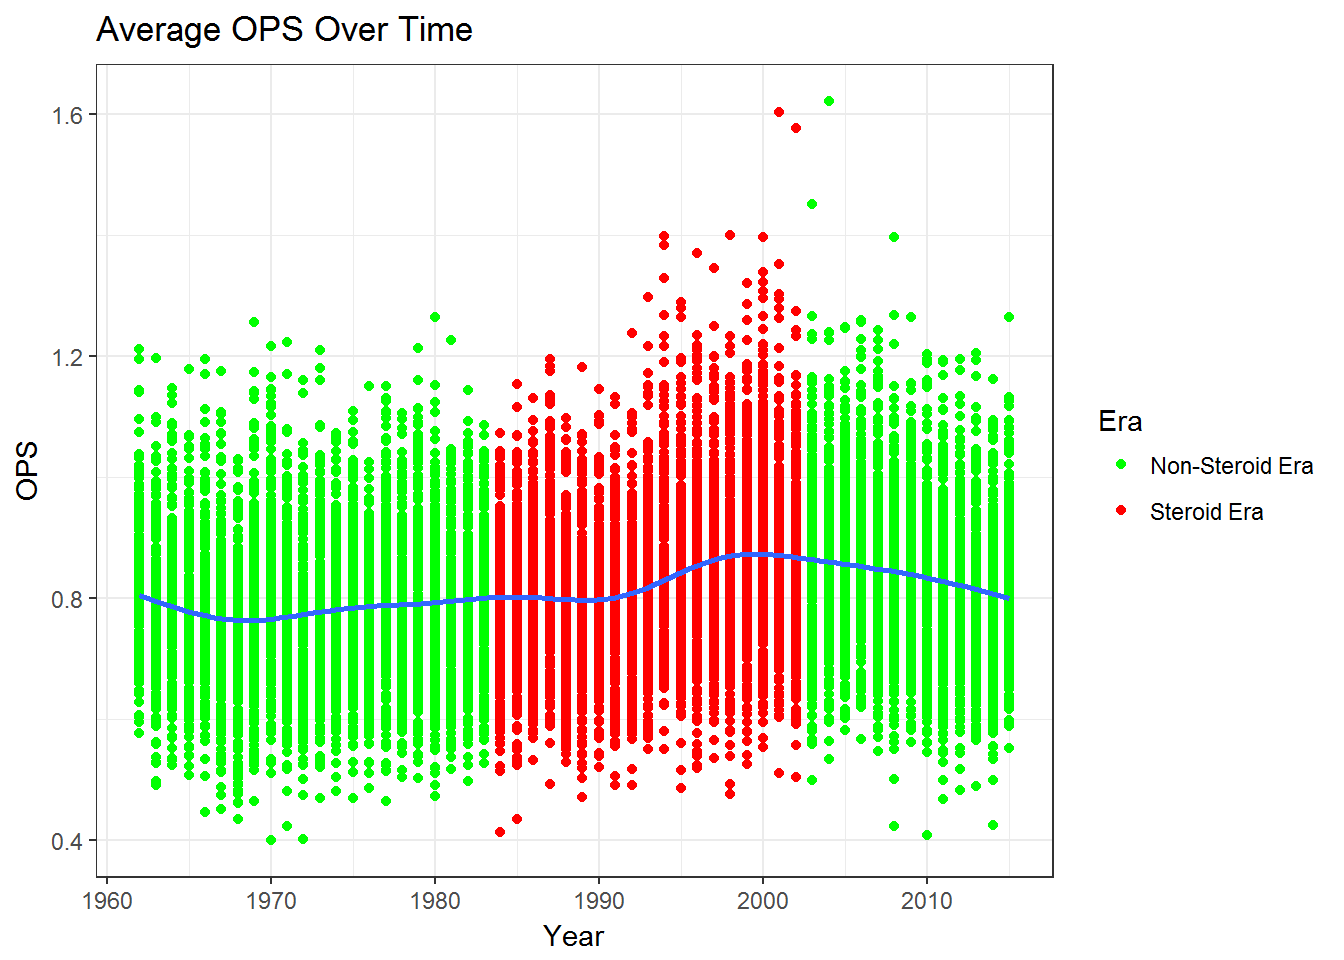
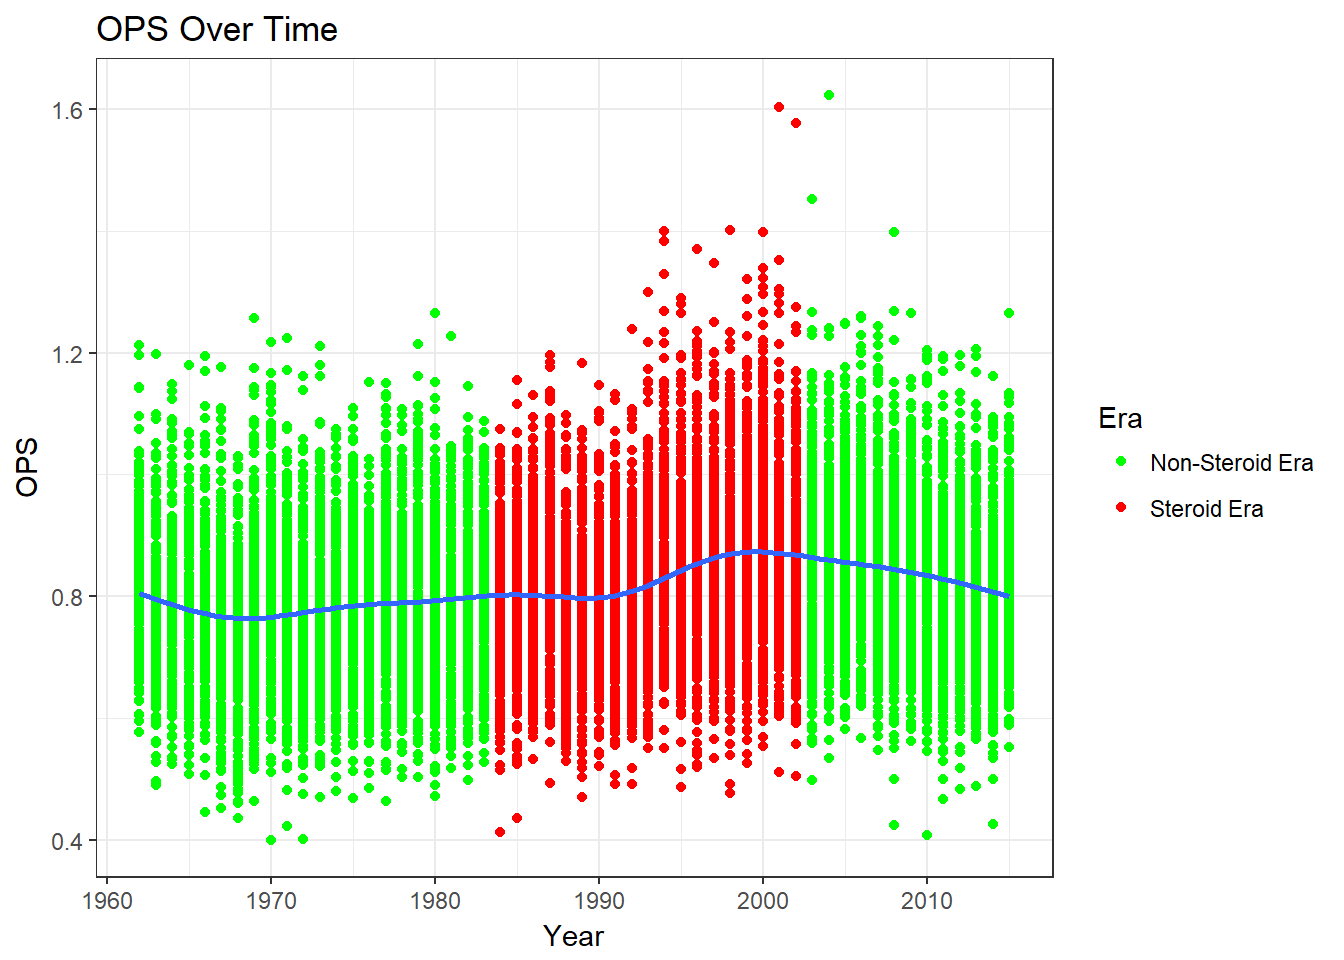
added descriptions

diff --git a/analysis.html b/analysis.html
@@ -202,39 +202,42 @@ $(document).ready(function () {
 
 
 <pre class="r"><code>batting2 = filter(batting, batting$yearID &gt; 1961) %&gt;% select(yearID,H,X2B,X3B,HR,AB,BB,HBP,SF) %&gt;% na.omit() %&gt;% mutate(TB = H+2*X2B+(3*X3B)+(4*HR)) %&gt;% mutate(SLG = TB/AB) %&gt;% na.omit() %&gt;% mutate(OBP = (H + BB + HBP)/(AB + BB + SF + HBP)) %&gt;% mutate(OPS = SLG + OBP) %&gt;% mutate(steroidEra = (yearID&gt;1983 &amp; yearID&lt;2003)) %&gt;% filter(AB&gt;160)</code></pre>
-<p>Using the filter function from the “dplyr” package, we took our batting data and truncated it below at the year 1961, since this is the year that baseball had become today’s standard of 162 games. Then using the select function we picked our desired variables, and then omitted any missing values(Na’s). Lastly we used mutate to create a series of new variables which ended up producing OPS, as such</p>
+<p>We used the filter function from the “dplyr” package and filtered out the data below at the year 1961, since this is the year that baseball had become today’s standard of 162 games. Then we used the select function to pick our desired variables and then omitted any missing values(Na’s). We filtered out players with few at bats. Lastly we used mutate to create a series of new variables which ended up producing OPS, as such</p>
 <p><span class="math display">\[TB=H+2(X2B)+3(X3B)+4(HR)\]</span> <span class="math display">\[ SLG=TB/AB \]</span> <span class="math display">\[OBP=(H+BB+HBP)/(AB +BB+SF+HBP) \]</span> <span class="math display">\[OPS=SLG+OBP \]</span></p>
 <pre class="r"><code>table = batting2 %&gt;% group_by(yearID,steroidEra) %&gt;% summarise(avgOPS = mean(OPS))</code></pre>
-<p>Next, creating a table with variables denotating: specific year, specifying if year is in steroid era (or not), and average OPS.</p>
-<pre class="r"><code>ggplot(batting2, aes(x =yearID, y = OPS)) + geom_point(aes(x =yearID, y = OPS ,col=steroidEra)) + geom_smooth(se=FALSE) + ggtitle(&quot;Average OPS Over Time&quot;) + xlab(&quot;Year&quot;) + ylab(&quot;OPS&quot;) + scale_color_discrete(name=&#39;Steroid Era&#39;) + theme_minimal() +  scale_color_manual(name= &quot;Era&quot;,labels=c(&quot;Non-Steroid Era&quot;,&quot;Steroid Era&quot;),values = c(&quot;green&quot;,&quot;red&quot;)) + theme_bw() </code></pre>
+<p>Next, we created created another subset of the data with just year, whether the year is in the steroid era, and a new variable, average OPS for the year.</p>
+<pre class="r"><code>ggplot(batting2, aes(x =yearID, y = OPS)) + geom_point(aes(x =yearID, y = OPS ,col=steroidEra)) + geom_smooth(se=FALSE) + ggtitle(&quot;OPS Over Time&quot;) + xlab(&quot;Year&quot;) + ylab(&quot;OPS&quot;) + scale_color_discrete(name=&#39;Steroid Era&#39;) + theme_minimal() +  scale_color_manual(name= &quot;Era&quot;,labels=c(&quot;Non-Steroid Era&quot;,&quot;Steroid Era&quot;),values = c(&quot;green&quot;,&quot;red&quot;)) + theme_bw() </code></pre>
 <p><img src="analysis_files/figure-html/unnamed-chunk-4-1.png" width="672" /></p>
 <pre class="r"><code>ggplot(table, aes(x =yearID, y = avgOPS)) + geom_point(aes(x =yearID, y = avgOPS ,col=steroidEra)) + geom_smooth(se=FALSE) + ggtitle(&quot;Average OPS Over Time&quot;) + xlab(&quot;Year&quot;) + ylab(&quot;Average OPS&quot;) + scale_color_manual(name= &quot;Era&quot;,labels=c(&quot;Non-Steroid Era&quot;,&quot;Steroid Era&quot;),values = c(&quot;green&quot;,&quot;red&quot;)) + theme_bw() </code></pre>
 <p><img src="analysis_files/figure-html/unnamed-chunk-4-2.png" width="672" /></p>
-<div id="we-can-see-that-average-ops-increases-steadily-during-the-60s-and-70s-increasing-moderately-still-through-80s-plateu-around-2000-then-decreases-steadily-after." class="section level3">
-<h3>We can see that average OPS increases steadily during the 60’s and 70’s, increasing moderately still through 80’s, plateu around 2000, then decreases steadily after.</h3>
+<div id="the-ops-over-time-graph-shows-that-there-was-a-bump-in-ops-during-the-steroid-era-and-that-it-seems-to-be-decreasing-now.-the-average-ops-graph-is-similar.-we-see-decreases-at-the-beginning-of-the-60s-and-then-slowing-increases-until-the-steroid-era-where-the-increase-is-larger.-after-the-steroid-era-ops-decreases." class="section level3">
+<h3>The OPS Over Time graph shows that there was a bump in OPS during the steroid era and that it seems to be decreasing now. The average OPS graph is similar. We see decreases at the beginning of the 60’s and then slowing increases until the steroid era where the increase is larger. After the steroid era OPS decreases.</h3>
 <pre class="r"><code>pitching2 = filter(pitching, pitching$yearID &gt; 1961)%&gt;%
   select(yearID,ERA,G) %&gt;% na.omit %&gt;%
-  mutate(steroidEra = (yearID&gt;1983 &amp; yearID&lt;2003)) %&gt;% filter(G&gt;15)
+  mutate(steroidEra = (yearID&gt;1983 &amp; yearID&lt;2003)) %&gt;% filter(G&gt;30)
 
 table2 = pitching2 %&gt;% group_by(yearID,steroidEra) %&gt;% summarise(avgERA = mean(ERA))</code></pre>
-<p>Using filter function on the pitching data to get years from 1961 to current. Then selecting years and ERA, and omitting Na’s. Then using mutate to specific steroid era as years 1983-2003.</p>
-<pre class="r"><code>ggplot(pitching2, aes(x =yearID, y = ERA)) + geom_point(aes(col = steroidEra)) + geom_smooth(se=TRUE) + ggtitle(&quot;Average ERA Over Time&quot;) + xlab(&quot;Year&quot;) + ylab(&quot;Average ERA&quot;) + scale_color_discrete(name=&#39;Steroid Era&#39;) + theme_minimal() +  scale_color_manual(name= &quot;Era&quot;,labels=c(&quot;Non-Steroid Era&quot;,&quot;Steroid Era&quot;),values = c(&quot;green&quot;,&quot;red&quot;)) + theme_bw() </code></pre>
+<p>We used the filter function on the pitching data to get years from 1961 to current. This time we did not have to do any extra calculations to get ERA. Thus, we selected year, whether the year was in the steroid era, and the amount of games the played played. After, we filtered out players with few games.</p>
+<p>Again, we created created another subset of the data with just year, whether the year is in the steroid era, and ERA.</p>
+<pre class="r"><code>ggplot(pitching2, aes(x =yearID, y = ERA)) + geom_point(aes(col = steroidEra)) + geom_smooth(se=TRUE) + ggtitle(&quot;ERA Over Time&quot;) + xlab(&quot;Year&quot;) + ylab(&quot;Average ERA&quot;) + scale_color_discrete(name=&#39;Steroid Era&#39;) + theme_minimal() +  scale_color_manual(name= &quot;Era&quot;,labels=c(&quot;Non-Steroid Era&quot;,&quot;Steroid Era&quot;),values = c(&quot;green&quot;,&quot;red&quot;)) + theme_bw() </code></pre>
 <p><img src="analysis_files/figure-html/unnamed-chunk-6-1.png" width="672" /></p>
 <pre class="r"><code>ggplot(table2, aes(x =yearID, y = avgERA)) + geom_point(aes(col = steroidEra)) + geom_smooth(se=FALSE) + ggtitle(&quot;Average ERA Over Time&quot;) + xlab(&quot;Year&quot;) + ylab(&quot;Average ERA&quot;) + scale_color_discrete(name=&#39;Steroid Era&#39;) + scale_color_manual(name= &quot;Era&quot;,labels=c(&quot;Non-Steroid Era&quot;,&quot;Steroid Era&quot;),values = c(&quot;green&quot;,&quot;red&quot;)) + theme_bw() </code></pre>
 <p><img src="analysis_files/figure-html/unnamed-chunk-6-2.png" width="672" /></p>
-<p>Again, creating a table but with variables denoting: specific year, specifying if year is in steroid era (or not), and average ERA.</p>
 </div>
-<div id="we-can-see-that-average-era-decreases-until-the-1980s-then-increases-drasticly-up-till-the-early-2000s-then-begins-a-steady-decrease." class="section level3">
-<h3>We can see that average ERA decreases until the 1980’s, then increases drasticly up till the early 2000’s, then begins a steady decrease.</h3>
+<div id="we-can-see-that-individually-era-was-steady-until-the-90s-where-it-increases-a-lot.-the-average-era-stated-increasing-in-the-70s-and-begins-to-sharply-increase-in-the-mid-80s.-after-the-steroid-era-it-decreases." class="section level3">
+<h3>We can see that individually, ERA was steady until the 90’s, where it increases a lot. The average ERA stated increasing in the 70’s and begins to sharply increase in the mid 80’s. After the steroid era it decreases.</h3>
+<pre class="r"><code>opsera = left_join(table,table2, by=&#39;yearID&#39;)
+ggplot(opsera, aes(avgERA,avgOPS,col = steroidEra.x)) + geom_point() + geom_smooth(se=FALSE) +  scale_color_manual(name= &quot;Era&quot;,labels=c(&quot;Non-Steroid Era&quot;,&quot;Steroid Era&quot;),values = c(&quot;green&quot;,&quot;red&quot;)) + theme_bw() + xlab(&quot;Average ERA&quot;) + ylab(&quot;Average OPS&quot;)</code></pre>
+<p><img src="analysis_files/figure-html/unnamed-chunk-7-1.png" width="672" /></p>
+</div>
+<div id="when-average-era-is-plotted-against-average-ops-we-can-see-that-not-every-year-during-the-steroid-era-had-a-much-higher-ops-however-some-years-during-the-steroid-era-did-have-a-significantly-high-ops." class="section level3">
+<h3>When average ERA is plotted against average OPS, we can see that not every year during the steroid era had a much higher OPS, however, some years during the steroid era did have a significantly high OPS.</h3>
 </div>
 <div id="drawing-conclusions" class="section level3">
 <h3>Drawing Conclusions:</h3>
 <p><em><strong>From the 60’s up till the steroid era, we see an increase in average OPS and decrease in average ERA, signifying that preformance was increasing for both pitchers and hitters.</strong></em></p>
 <p><em><strong>During the steriod era, ERA increase when OPS did, and then both begin to decrease around the end of the steriod era.</strong></em></p>
 <p><em><strong>It appears that steriods did give an advantage to batters over pithers during the steroid era.</strong></em></p>
-<pre class="r"><code>opsera = left_join(table,table2, by=&#39;yearID&#39;)
-ggplot(opsera, aes(avgERA,avgOPS,col = steroidEra.x)) + geom_point() + geom_smooth(se=FALSE) +  scale_color_manual(name= &quot;Era&quot;,labels=c(&quot;Non-Steroid Era&quot;,&quot;Steroid Era&quot;),values = c(&quot;green&quot;,&quot;red&quot;)) + theme_bw() + xlab(&quot;Average ERA&quot;) + ylab(&quot;Average OPS&quot;)</code></pre>
-<p><img src="analysis_files/figure-html/unnamed-chunk-7-1.png" width="672" /></p>
 </div>
 
 
